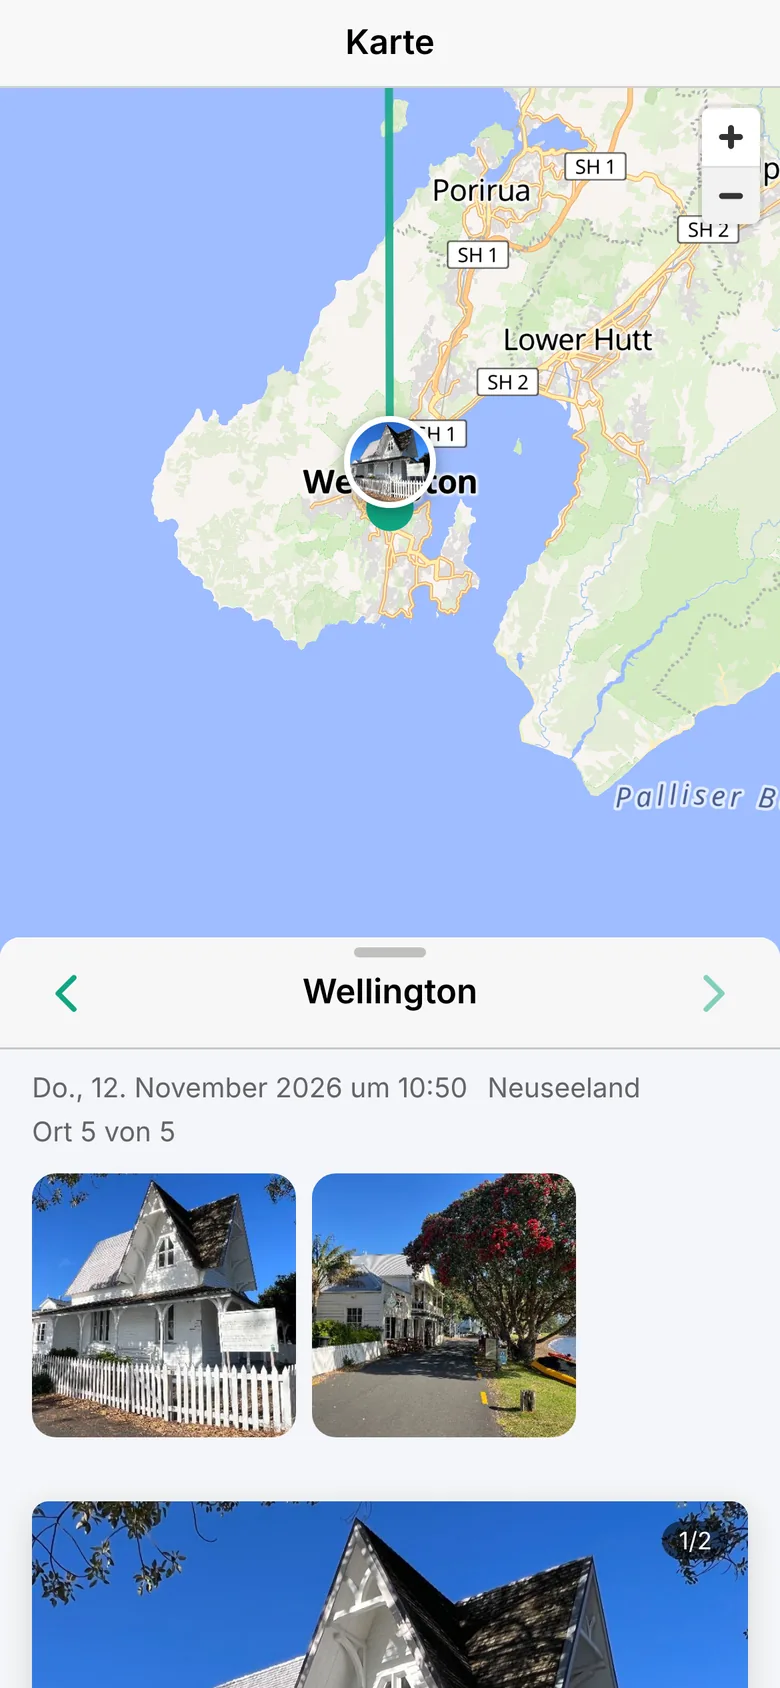
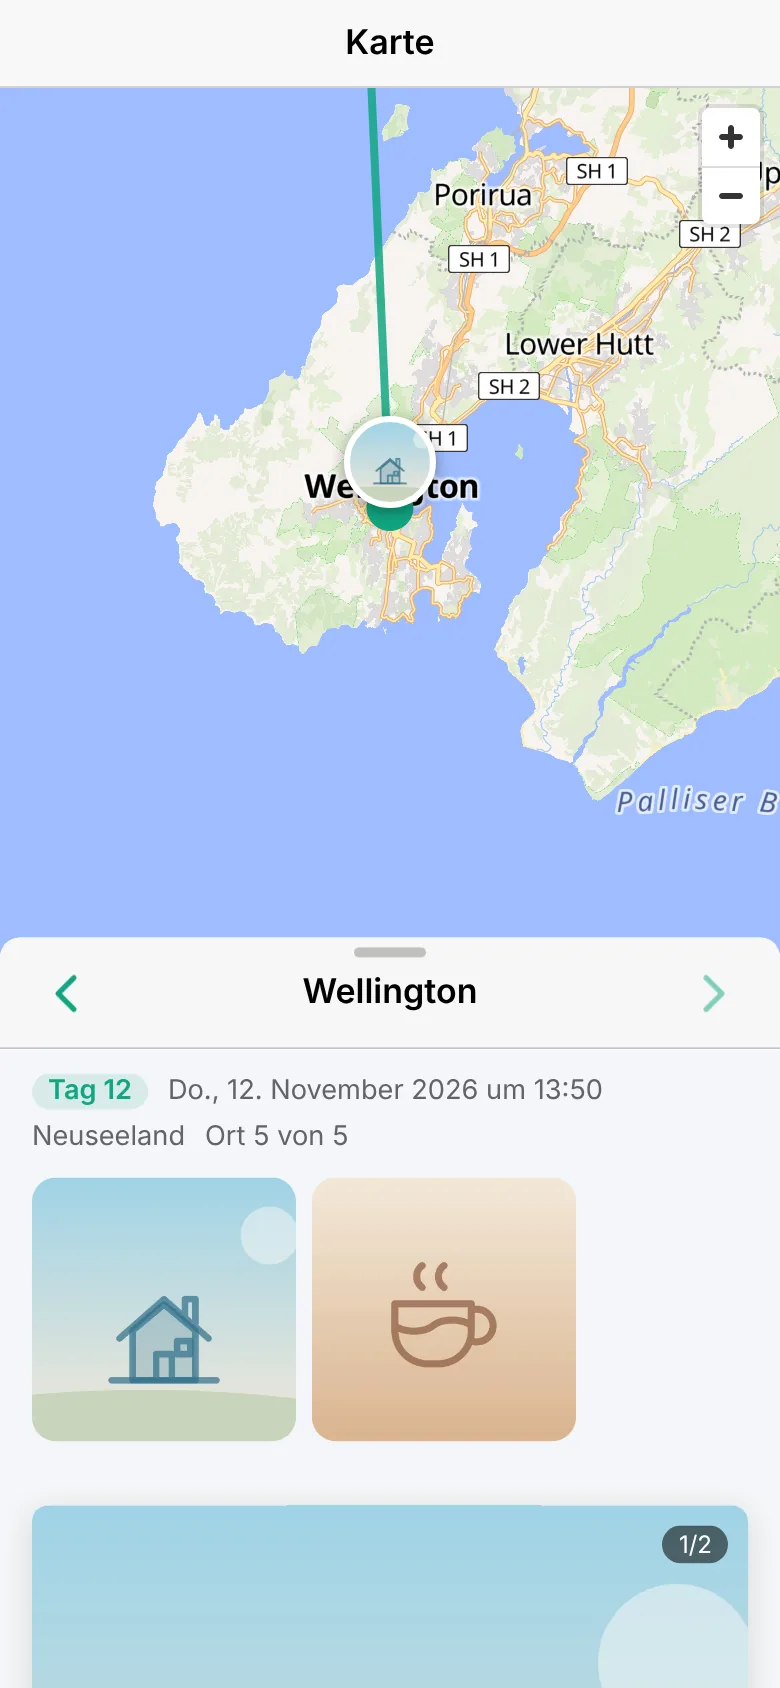
feat(landing): App-Bilder neu mit Illustrationen statt Fotos
Fünf Bilder der aktuellen App (Feed zweimal, Karte mit ganzer Route,
Ortsdetails, neuer Beitrag) mit einer Demo-Reise Zürich → Dubai → Auckland →
Wellington. Statt echter Fotos Illustrationen im Linienstil der Symbole des
Instagram-Bildes. 780 × 1688 (390 × 844 @2x), WebP. checkin.webp → compose.webp,
Alt-Text des zweiten Feed-Bildes in allen Sprachen angepasst.

Claude-Session: https://claude.ai/code/session_01YA2kFpb6kbScF8SXAj92J3

diff --git a/src/pages/landingI18n.ts b/src/pages/landingI18n.ts
@@ -107,7 +107,7 @@ const de: LandingText = {
   shotLabels: ['Tagebuch', 'Route', 'Ort im Detail', 'Beitrag erfassen'],
   shotAlts: [
     'Tagebuch mit einem Beitrag aus Wellington',
-    'Tagebuch mit einem Beitrag aus Auckland',
+    'Tagebuch mit einem Beitrag aus Piha bei Auckland',
     'Karte mit der Route von Zürich über Dubai nach Auckland und Wellington',
     'Details zu Wellington mit Fotos',
     'Beitrag erfassen mit Ort, Zeitpunkt und drei Fotos',
@@ -214,7 +214,7 @@ const en: LandingText = {
   shotLabels: ['Journal', 'Route', 'Place details', 'New post'],
   shotAlts: [
     'Journal with a post from Wellington',
-    'Journal with a post from Auckland',
+    'Journal with a post from Piha near Auckland',
     'Map with the route from Zurich via Dubai to Auckland and Wellington',
     'Details for Wellington with photos',
     'New post with place, time and three photos',
@@ -321,7 +321,7 @@ const fr: LandingText = {
   shotLabels: ['Carnet', 'Itinéraire', 'Détail du lieu', 'Nouvel article'],
   shotAlts: [
     'Carnet avec un article de Wellington',
-    'Carnet avec un article d’Auckland',
+    'Carnet avec un article de Piha, près d’Auckland',
     'Carte avec l’itinéraire de Zurich à Auckland et Wellington via Dubaï',
     'Détails de Wellington avec photos',
     'Nouvel article avec lieu, heure et trois photos',
@@ -428,7 +428,7 @@ const es: LandingText = {
   shotLabels: ['Diario', 'Ruta', 'Detalle del lugar', 'Nueva entrada'],
   shotAlts: [
     'Diario con una entrada desde Wellington',
-    'Diario con una entrada desde Auckland',
+    'Diario con una entrada desde Piha, cerca de Auckland',
     'Mapa con la ruta de Zúrich a Auckland y Wellington pasando por Dubái',
     'Detalles de Wellington con fotos',
     'Nueva entrada con lugar, hora y tres fotos',

diff --git a/src/pages/LandingPage.tsx b/src/pages/LandingPage.tsx
@@ -53,7 +53,7 @@ const screens = [
   { src: 'feed2.webp', alt: 1, label: 0 },
   { src: 'map.webp', alt: 2, label: 1 },
   { src: 'sheet.webp', alt: 3, label: 2 },
-  { src: 'checkin.webp', alt: 4, label: 3 },
+  { src: 'compose.webp', alt: 4, label: 3 },
 ]
 
 const prefersDark = () => window.matchMedia?.('(prefers-color-scheme: dark)').matches ?? false
